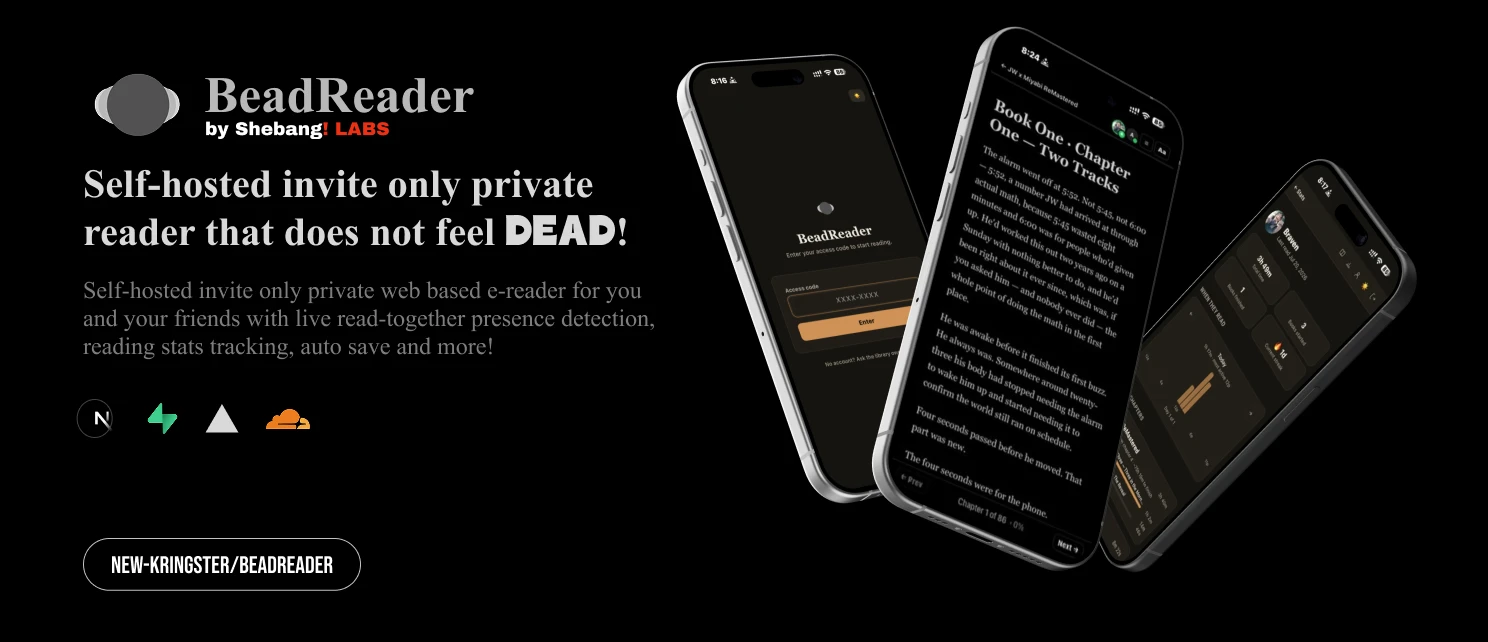
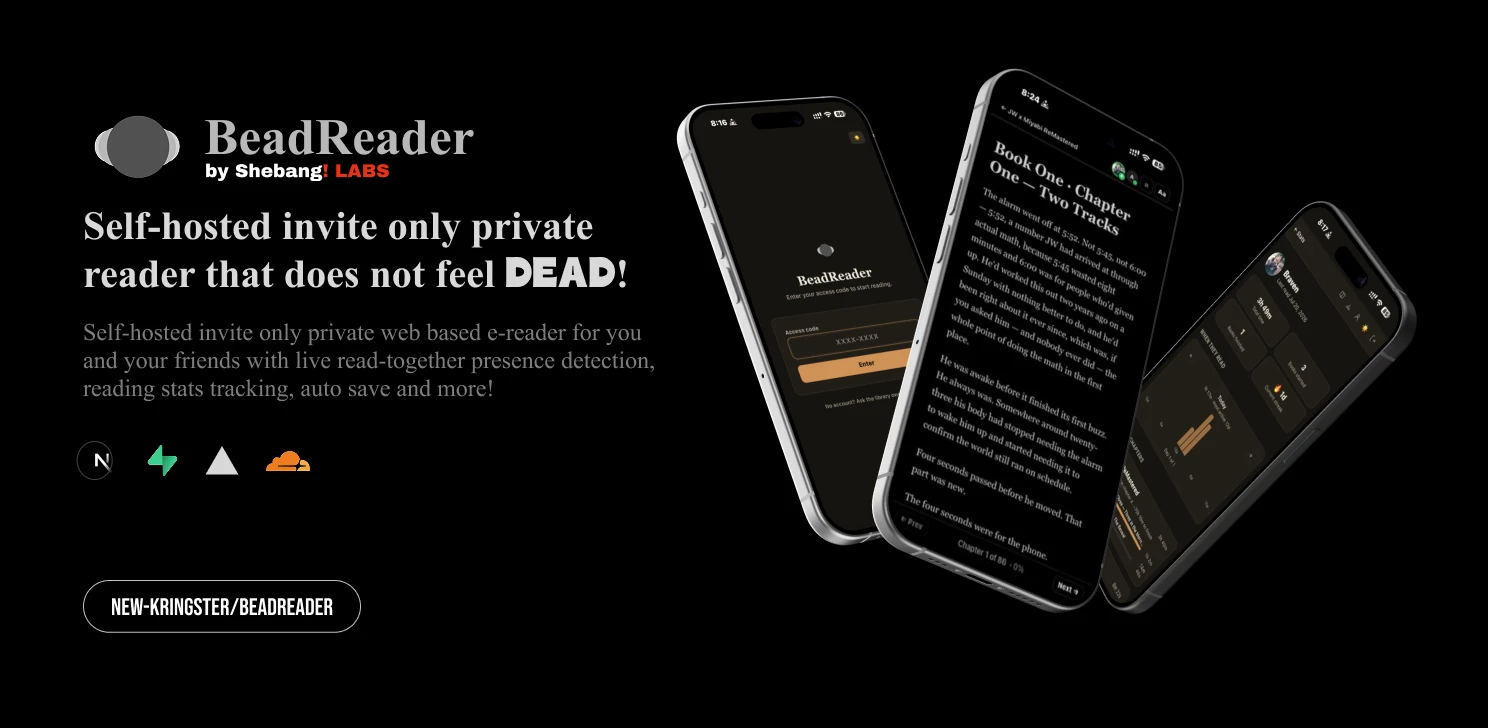
Flagship polish: flagships first, crown badge in spotlights, padded flagship image, spicy-gate on its own line with animated reveal
- Order the two flagships (Project June, BeadReader) first in the gallery,
  peek feed order, and recommendations.
- BeadReader flagship spotlight image: a bit more top/bottom padding (less cramped).
- Spotlight badges now use the premium gold crown design (matching the gallery
  Flagship badge); dropped the sensory 'cooling' override on .hp-spot-badge.
- SpicyGate: the spicy passage is now its own line between two clean sentences, so
  revealing never rearranges the text, and the reveal animates blur to clear.

diff --git a/app/beadreader/SpicyGate.tsx b/app/beadreader/SpicyGate.tsx
@@ -2,21 +2,22 @@
 import { useEffect, useRef, useState } from 'react';
 import { AnimatePresence, LazyMotion, domAnimation, m } from 'framer-motion';
 
-/* SpicyGate — dramatises BeadReader's per-reader "spicy" content gate: the
-   same chapter paragraph rendered three ways depending on the reader's mode
-   (blurred tap-to-reveal, locked, or entirely absent). Auto-cycles, pauses
-   off-screen, never reflows the page. */
+/* SpicyGate — dramatises BeadReader's per-reader "spicy" content gate. The
+   spicy passage sits on its OWN line between two clean sentences, so revealing
+   it never rearranges the surrounding text. Full access blurs the line and
+   animates it clear on tap; No access shows a locked block; Cal mode drops the
+   line entirely. Auto-cycles, pauses off-screen, never reflows the page. */
 
-const LEAD = 'They had circled each other all evening. When the last guest finally left, the room went quiet, and ';
-const SPICY = 'what happened next stayed between them and the low light of the fire.';
-const TRAIL = ' Morning came far too soon.';
+const LEAD = 'They had circled each other all evening. When the last guest finally left, the room went quiet.';
+const SPICY = 'What happened next stayed between them and the low light of the fire.';
+const TRAIL = 'Morning came far too soon.';
 
 type ModeKey = 'full' | 'none' | 'cal';
 type Mode = { key: ModeKey; label: string; caption: string };
 const MODES: Mode[] = [
-  { key: 'full', label: 'Full access', caption: 'Tap the blurred line to reveal the spicy passage.' },
+  { key: 'full', label: 'Full access', caption: 'Tap the blurred line and it clears. The reader has access.' },
   { key: 'none', label: 'No access', caption: 'Locked. The passage never renders for this reader.' },
-  { key: 'cal', label: 'Cal mode', caption: 'The passage is skipped entirely, no gap, no marker.' },
+  { key: 'cal', label: 'Cal mode', caption: 'The line is dropped entirely, no gap and no marker.' },
 ];
 
 const LONGEST_CAPTION = MODES.reduce((a, b) => (b.caption.length > a.length ? b.caption : a), '');
@@ -48,7 +49,7 @@ export default function SpicyGate() {
 
   useEffect(() => {
     if (!auto || !inView || reduced) return;
-    const t = setInterval(() => setModeIdx((p) => (p + 1) % MODES.length), 3400);
+    const t = setInterval(() => setModeIdx((p) => (p + 1) % MODES.length), 3600);
     return () => clearInterval(t);
   }, [auto, inView, reduced]);
 
@@ -61,7 +62,14 @@ export default function SpicyGate() {
   };
 
   const mode = MODES[modeIdx];
-  const showRevealed = mode.key === 'full' && (revealed || reduced);
+  const showRevealed = revealed || reduced;
+
+  const fade = {
+    initial: reduced ? false : { opacity: 0 },
+    animate: { opacity: 1 },
+    exit: { opacity: 0 },
+    transition: { duration: 0.28 },
+  } as const;
 
   return (
     <LazyMotion features={domAnimation}>
@@ -69,61 +77,36 @@ export default function SpicyGate() {
         <div className="sg-panel">
           <span className="sg-eyebrow">Chapter 9</span>
           <div className="sg-page">
-            <p className="sg-para">
-              {LEAD}
-              <span className="sg-passage-slot">
+            <div className="sg-story">
+              <p className="sg-para">{LEAD}</p>
+              <div className="sg-spicy-line">
                 <AnimatePresence mode="wait" initial={false}>
                   {mode.key === 'full' && (
-                    <m.span
-                      key="full"
-                      className={`sg-passage full${showRevealed ? ' is-revealed' : ''}`}
-                      initial={reduced ? false : { opacity: 0 }}
-                      animate={{ opacity: 1 }}
-                      exit={reduced ? { opacity: 0 } : { opacity: 0 }}
-                      transition={{ duration: 0.25 }}
-                    >
-                      {!showRevealed && (
-                        <button
-                          type="button"
-                          className="sg-reveal-btn"
-                          onClick={() => setRevealed(true)}
-                          aria-label="Tap to reveal the spicy passage"
-                        >
-                          <span className="sg-blur-text" aria-hidden="true">{SPICY}</span>
-                          <span className="sg-reveal-tag"><span aria-hidden="true">🌶</span> tap to reveal</span>
-                        </button>
-                      )}
-                      {showRevealed && <span className="sg-passage-text">{SPICY}</span>}
-                    </m.span>
+                    <m.div key="full" className="sg-spicy-wrap" {...fade}>
+                      <button
+                        type="button"
+                        className={`sg-reveal${showRevealed ? ' is-revealed' : ''}`}
+                        onClick={() => setRevealed(true)}
+                        disabled={showRevealed}
+                        aria-label={showRevealed ? 'Spicy passage revealed' : 'Tap to reveal the spicy passage'}
+                      >
+                        <span className="sg-spicy-text">{SPICY}</span>
+                        <span className="sg-reveal-tag"><span aria-hidden="true">🌶</span> tap to reveal</span>
+                      </button>
+                    </m.div>
                   )}
                   {mode.key === 'none' && (
-                    <m.span
-                      key="none"
-                      className="sg-passage locked"
-                      initial={reduced ? false : { opacity: 0 }}
-                      animate={{ opacity: 1 }}
-                      exit={reduced ? { opacity: 0 } : { opacity: 0 }}
-                      transition={{ duration: 0.25 }}
-                    >
-                      <span className="sg-lock-block">
-                        <span aria-hidden="true">🔒</span> Spicy passage, access on request
-                      </span>
-                    </m.span>
+                    <m.div key="none" className="sg-spicy-wrap" {...fade}>
+                      <span className="sg-lock-block"><span aria-hidden="true">🔒</span> Spicy passage, access on request</span>
+                    </m.div>
                   )}
                   {mode.key === 'cal' && (
-                    <m.span
-                      key="cal"
-                      className="sg-passage cal"
-                      initial={reduced ? false : { opacity: 0 }}
-                      animate={{ opacity: 1 }}
-                      exit={reduced ? { opacity: 0 } : { opacity: 0 }}
-                      transition={{ duration: 0.25 }}
-                    />
+                    <m.div key="cal" className="sg-spicy-wrap sg-cal" {...fade} />
                   )}
                 </AnimatePresence>
-              </span>
-              {TRAIL}
-            </p>
+              </div>
+              <p className="sg-para">{TRAIL}</p>
+            </div>
           </div>
         </div>
 
@@ -167,40 +150,42 @@ export default function SpicyGate() {
             font-family: 'inter'; font-size: 0.64rem; font-weight: 700; letter-spacing: 0.2em;
             text-transform: uppercase; color: rgba(232,220,200,0.55); display: block; margin-bottom: 12px;
           }
-          .sg-page { min-height: 168px; display: flex; align-items: center; }
+          /* Fixed reserve for the whole passage block, so cycling modes never reflows the page. */
+          .sg-page { min-height: 190px; display: flex; align-items: center; }
+          .sg-story { width: 100%; }
           .sg-para {
-            font-family: 'dmsans'; font-size: 0.98rem; line-height: 1.75; color: rgba(240,232,220,0.86);
-            margin: 0;
+            font-family: 'dmsans'; font-size: 0.98rem; line-height: 1.7; color: rgba(240,232,220,0.86); margin: 0;
           }
-          .sg-passage-slot { display: inline; }
-          .sg-passage { display: inline; }
-          .sg-passage.full { position: relative; }
-          .sg-reveal-btn {
-            position: relative; display: inline-flex; align-items: baseline; gap: 8px; flex-wrap: wrap;
-            border: 0; padding: 0; margin: 0; background: none; cursor: pointer; text-align: left;
-            font: inherit; color: inherit;
+          /* The spicy passage is its OWN line between the two paragraphs. */
+          .sg-spicy-line { margin: 0.55rem 0; }
+          .sg-spicy-wrap { min-height: 1.75em; display: flex; align-items: center; }
+          .sg-spicy-wrap.sg-cal { min-height: 0; }
+          .sg-reveal {
+            display: inline-flex; align-items: center; gap: 11px; flex-wrap: wrap;
+            border: 0; background: none; padding: 0; margin: 0; cursor: pointer; text-align: left; font: inherit; color: inherit;
           }
-          .sg-blur-text {
-            filter: blur(6px); user-select: none; transition: filter 0.3s ease;
+          .sg-reveal[disabled] { cursor: default; }
+          /* Same text element both states: revealing only animates the blur away, so nothing moves. */
+          .sg-spicy-text {
+            font-family: 'dmsans'; font-size: 0.98rem; line-height: 1.7;
+            filter: blur(6px); color: rgba(240,232,220,0.5); user-select: none;
+            transition: filter 0.6s ease, color 0.6s ease;
           }
-          .sg-reveal-btn:hover .sg-blur-text { filter: blur(5px); }
+          .sg-reveal.is-revealed .sg-spicy-text { filter: blur(0); color: var(--sg-spicy); user-select: text; }
           .sg-reveal-tag {
             display: inline-flex; align-items: center; gap: 5px; white-space: nowrap;
-            font-family: 'inter'; font-weight: 700; font-size: 0.62rem; letter-spacing: 0.06em;
-            text-transform: uppercase; color: var(--sg-spicy);
-            background: rgba(224,102,61,0.14); border: 1px solid rgba(224,102,61,0.35);
-            padding: 3px 9px; border-radius: 999px; vertical-align: middle;
+            font-family: 'inter'; font-weight: 700; font-size: 0.62rem; letter-spacing: 0.06em; text-transform: uppercase;
+            color: var(--sg-spicy); background: rgba(224,102,61,0.14); border: 1px solid rgba(224,102,61,0.35);
+            padding: 3px 9px; border-radius: 999px; transition: opacity 0.45s ease;
           }
-          .sg-reveal-btn:focus-visible { outline: 2px solid rgb(var(--sa-accent)); outline-offset: 3px; border-radius: 4px; }
-          .sg-passage-text { color: var(--sg-spicy); }
-          .sg-passage.locked { display: inline-block; }
+          .sg-reveal.is-revealed .sg-reveal-tag { opacity: 0; }
+          .sg-reveal:focus-visible { outline: 2px solid rgb(var(--sa-accent)); outline-offset: 4px; border-radius: 6px; }
           .sg-lock-block {
-            display: inline-flex; align-items: center; gap: 7px; white-space: nowrap;
-            font-family: 'inter'; font-weight: 600; font-size: 0.78rem; color: rgba(240,232,220,0.55);
+            display: inline-flex; align-items: center; gap: 7px;
+            font-family: 'inter'; font-weight: 600; font-size: 0.8rem; color: rgba(240,232,220,0.55);
             background: rgba(255,255,255,0.05); border: 1px solid rgba(255,255,255,0.12);
-            padding: 4px 11px; border-radius: 8px; vertical-align: middle;
+            padding: 5px 12px; border-radius: 8px;
           }
-          .sg-passage.cal { display: inline; }
           .sg-side { display: flex; flex-direction: column; gap: 16px; }
           .sg-tabs { display: flex; gap: 8px; flex-wrap: wrap; }
           .sg-tab {
@@ -212,23 +197,19 @@ export default function SpicyGate() {
           .sg-tab:hover { transform: translateY(-1px); border-color: rgba(var(--sa-accent), 0.5); color: #f2ece2; }
           .sg-tab:active { transform: translateY(0); }
           .sg-tab:focus-visible { outline: 2px solid rgb(var(--sa-accent)); outline-offset: 2px; }
-          .sg-tab.is-active {
-            color: #1a1208; background: rgb(var(--sa-accent)); border-color: rgb(var(--sa-accent));
-          }
+          .sg-tab.is-active { color: #1a1208; background: rgb(var(--sa-accent)); border-color: rgb(var(--sa-accent)); }
           .sg-cap-wrap { display: grid; }
           .sg-cap-wrap > .sg-cap { grid-area: 1 / 1; }
           .sg-cap-sizer { visibility: hidden; pointer-events: none; }
           .sg-cap { font-family: 'dmsans'; font-size: 0.94rem; line-height: 1.6; color: rgba(240,232,220,0.78); margin: 0; max-width: 32ch; }
           .sg-footnote {
-            font-family: 'dmsans'; font-size: 0.76rem; line-height: 1.5; color: rgba(232,220,200,0.45);
-            max-width: 32ch;
+            font-family: 'dmsans'; font-size: 0.76rem; line-height: 1.5; color: rgba(232,220,200,0.45); max-width: 32ch;
           }
           @media (max-width: 720px) {
             .sg { grid-template-columns: 1fr; gap: 20px; }
           }
           @media (max-width: 420px) {
-            .sg-page { min-height: 210px; }
-            .sg-reveal-tag { display: inline-flex; }
+            .sg-page { min-height: 226px; }
           }
         `}</style>
       </div>

diff --git a/app/HomeClient.tsx b/app/HomeClient.tsx
@@ -493,11 +493,7 @@ export default function HomeClient() {
           html.sensory-active .hp-pf-showmore-wrap::before {
             background: linear-gradient(to bottom, rgba(5,7,14,0) 0%, rgba(5,7,14,0.8) 62%, rgba(5,7,14,0.97) 100%) !important; }
 
-          /* Cool the warm flagship badge so it reads in the deck palette */
-          html.sensory-active .hp-spot-badge {
-            background: rgba(12,16,28,0.62) !important; border: 1px solid rgba(var(--sa-accent),0.42) !important;
-            color: #cddbff !important; font-family: var(--font-ddt); text-transform: uppercase; letter-spacing: 0.14em; }
-          html.sensory-active .hp-spot-badge svg { color: rgba(var(--sa-accent),0.95); fill: rgba(var(--sa-accent),0.95); }
+          /* The flagship spotlight badge stays the premium gold crown (see .hp-spot-badge). */
         `}</style>
 
         {/* ── HERO ── */}
@@ -651,7 +647,7 @@ export default function HomeClient() {
             <article className="hp-spotlight" data-reveal>
               <div className="hp-spot-media">
                 <img src="/images/ProjJuneBanner1.webp" alt="Project June, a 5G radio-controlled vehicle" loading="lazy" />
-                <span className="hp-spot-badge"><ST /> Flagship Hardware Build</span>
+                <span className="hp-spot-badge"><CRWN /> Flagship Hardware Build</span>
               </div>
               <div className="hp-spot-body">
                 <span className="hp-key">Project June · Personal</span>
@@ -676,7 +672,7 @@ export default function HomeClient() {
             <article className="hp-spotlight hp-spotlight-solo" data-reveal>
               <div className="hp-spot-media">
                 <img src="/images/beadreader-flagship.webp" alt="BeadReader, a self-hosted invite-only private book reader" loading="lazy" />
-                <span className="hp-spot-badge"><ST /> Flagship Software Build</span>
+                <span className="hp-spot-badge"><CRWN /> Flagship Software Build</span>
               </div>
               <div className="hp-spot-solo-body">
                 <div className="hp-spot-stats">
@@ -754,6 +750,23 @@ export default function HomeClient() {
                 </div>
               </article>
 
+              {/* BeadReader */}
+              <article id="proj-beadreader" className="hp-pf-card" data-article="/beadreader" data-type="personal" data-flagship="1" data-search="beadreader bead reader private book reader ebook webtoon nextjs supabase cloudflare r2 tailwind postgres presence reading stats access code personal flagship highlight web app">
+                <div className="hp-pf-thumb">
+                  <button className="hp-pf-peek" onClick={peek} aria-label="Peek at a quick summary"><span className="hp-pf-peek-pill"><SR />Peek summary</span></button>
+                  <span className="hp-pf-type personal">Personal</span><span className="hp-pf-crown"><CRWN />Flagship</span>
+                  <img src="/images/beadreader-pf-context.webp" alt="BeadReader private book reader" loading="lazy" />
+                </div>
+                <div className="hp-pf-info">
+                  <h3 className="hp-pf-name">BeadReader</h3>
+                  <p className="hp-pf-blurb">A private, invite-only online book reader with live reading-together presence, per-reader resume, a SQL-enforced content gate, webtoons and shared reading stats. Next.js and Supabase.</p>
+                  <div className="hp-pf-foot">
+                    <div className="icon-stack"><img src="/images/nextjs-icon.webp" alt="" /><img src="/images/supabase-icon.webp" alt="" /><img src="/images/tailwind-icon.webp" alt="" /><img src="/images/cloudflare-icon.webp" alt="" /></div>
+                    <button className="hp-pf-view" onClick={() => { window.location.href = '/beadreader'; }}>Read article <AU /></button>
+                  </div>
+                </div>
+              </article>
+
               {/* LoRA Messenger */}
               <article id="proj-lora" className="hp-pf-card" data-article="/brolocator" data-type="personal" data-highlight="1" data-search="lora messenger esp32 espnow voice pcb kicad onshape oled battery personal radio highlight">
                 <div className="hp-pf-thumb">
@@ -784,23 +797,6 @@ export default function HomeClient() {
                   <div className="hp-pf-foot">
                     <div className="icon-stack"><img src="/images/esp-icon.webp" alt="" /><img src="/images/python-icon.webp" alt="" /><img src="/images/docker-icon.webp" alt="" /><img src="/images/vscode-icon.webp" alt="" /></div>
                     <button className="hp-pf-view" onClick={() => { window.location.href = '/lumen'; }}>Read article <AU /></button>
-                  </div>
-                </div>
-              </article>
-
-              {/* BeadReader */}
-              <article id="proj-beadreader" className="hp-pf-card" data-article="/beadreader" data-type="personal" data-flagship="1" data-search="beadreader bead reader private book reader ebook webtoon nextjs supabase cloudflare r2 tailwind postgres presence reading stats access code personal flagship highlight web app">
-                <div className="hp-pf-thumb">
-                  <button className="hp-pf-peek" onClick={peek} aria-label="Peek at a quick summary"><span className="hp-pf-peek-pill"><SR />Peek summary</span></button>
-                  <span className="hp-pf-type personal">Personal</span><span className="hp-pf-crown"><CRWN />Flagship</span>
-                  <img src="/images/beadreader-pf-context.webp" alt="BeadReader private book reader" loading="lazy" />
-                </div>
-                <div className="hp-pf-info">
-                  <h3 className="hp-pf-name">BeadReader</h3>
-                  <p className="hp-pf-blurb">A private, invite-only online book reader with live reading-together presence, per-reader resume, a SQL-enforced content gate, webtoons and shared reading stats. Next.js and Supabase.</p>
-                  <div className="hp-pf-foot">
-                    <div className="icon-stack"><img src="/images/nextjs-icon.webp" alt="" /><img src="/images/supabase-icon.webp" alt="" /><img src="/images/tailwind-icon.webp" alt="" /><img src="/images/cloudflare-icon.webp" alt="" /></div>
-                    <button className="hp-pf-view" onClick={() => { window.location.href = '/beadreader'; }}>Read article <AU /></button>
                   </div>
                 </div>
               </article>

diff --git a/components/ArticleRecommendations.tsx b/components/ArticleRecommendations.tsx
@@ -24,9 +24,9 @@ interface Project {
 
 const ALL_PROJECTS: Project[] = [
   { id: 'proj-june', title: 'Project June', blurb: 'A 5G radio-controlled vehicle with 3 live video streams, GPS, a laser system, gyroscope and more. My most ambitious build.', img: '/images/ProjJuneBanner1.webp', imgAlt: 'Project June rover', type: 'personal', flagship: true, articleUrl: '/project-june', icons: [{ src: '/images/esp-icon.webp', alt: 'ESP32' }, { src: '/images/Kicad-icon.webp', alt: 'KiCAD' }, { src: '/images/onshape-icon.webp', alt: 'Onshape' }, { src: '/images/PlatformIO-icon.webp', alt: 'PlatformIO' }] },
+  { id: 'proj-beadreader', title: 'BeadReader', blurb: 'A private, invite-only online book reader with live presence, per-reader resume, a SQL-enforced content gate, webtoons and shared reading stats. Next.js and Supabase.', img: '/images/beadreader-pf-context.webp', imgAlt: 'BeadReader private book reader', type: 'personal', flagship: true, articleUrl: '/beadreader', icons: [{ src: '/images/nextjs-icon.webp', alt: 'Next.js' }, { src: '/images/supabase-icon.webp', alt: 'Supabase' }, { src: '/images/tailwind-icon.webp', alt: 'Tailwind CSS' }, { src: '/images/cloudflare-icon.webp', alt: 'Cloudflare R2' }] },
   { id: 'proj-lora', title: 'LoRA Messenger', blurb: 'An ESP32 messenger with 2-way voice over ESP-NOW and text over LoRa. Custom PCB in KiCAD, case in Onshape, all self-taught.', img: '/images/borlocator-pf-context.webp', imgAlt: 'LoRA Messenger', type: 'personal', highlight: true, articleUrl: '/brolocator', icons: [{ src: '/images/esp-icon.webp', alt: 'ESP32' }, { src: '/images/Kicad-icon.webp', alt: 'KiCAD' }, { src: '/images/onshape-icon.webp', alt: 'Onshape' }, { src: '/images/PlatformIO-icon.webp', alt: 'PlatformIO' }] },
   { id: 'proj-lumen', title: 'LUMEN', blurb: 'A voice-controlled smart-room assistant on an ESP32, with Whisper and a DeepSeek LLM via OpenRouter turning speech into one JSON command over MQTT.', img: '/images/lumen-pf-context.webp', imgAlt: 'LUMEN voice assistant', type: 'school', highlight: true, articleUrl: '/lumen', icons: [{ src: '/images/esp-icon.webp', alt: 'ESP32' }, { src: '/images/python-icon.webp', alt: 'Python' }, { src: '/images/docker-icon.webp', alt: 'Docker' }, { src: '/images/vscode-icon.webp', alt: 'VS Code' }] },
-  { id: 'proj-beadreader', title: 'BeadReader', blurb: 'A private, invite-only online book reader with live presence, per-reader resume, a SQL-enforced content gate, webtoons and shared reading stats. Next.js and Supabase.', img: '/images/beadreader-pf-context.webp', imgAlt: 'BeadReader private book reader', type: 'personal', flagship: true, articleUrl: '/beadreader', icons: [{ src: '/images/nextjs-icon.webp', alt: 'Next.js' }, { src: '/images/supabase-icon.webp', alt: 'Supabase' }, { src: '/images/tailwind-icon.webp', alt: 'Tailwind CSS' }, { src: '/images/cloudflare-icon.webp', alt: 'Cloudflare R2' }] },
   { id: 'proj-ema', title: 'EMA Smart Home', blurb: 'A multi-node smart-home system on BeagleBone Black, Python and SocketIO, with a live dashboard and a 3D Spline view.', img: '/images/Ema-pf-context.webp', imgAlt: 'EMA Smart Home System', type: 'school', highlight: false, articleUrl: '/csdp', icons: [{ src: '/images/vscode-icon.webp', alt: 'VS Code' }, { src: '/images/figma-icon.webp', alt: 'Figma' }, { src: '/images/resolve-icon.webp', alt: 'DaVinci Resolve' }, { src: '/images/onshape-icon.webp', alt: 'Onshape' }] },
   { id: 'proj-pandus', title: 'Pandus Dispenser', blurb: 'My first school project: a 6-part 3D-printed water dispenser powered by an Arduino Uno and driven with PyFirmata.', img: '/images/pandusarticle.webp', imgAlt: 'Pandus Dispenser', type: 'school', highlight: false, articleUrl: '/pandus', icons: [{ src: '/images/onshape-icon.webp', alt: 'Onshape' }, { src: '/images/vscode-icon.webp', alt: 'VS Code' }, { src: '/images/resolve-icon.webp', alt: 'DaVinci Resolve' }, { src: '/images/powerpoint-icon.webp', alt: 'PowerPoint' }] },
   { id: 'proj-elecf', title: 'ELEC-F Concept', blurb: 'A freezer safety system on M5Stack. ToF and PIR sensors catch a worker trapped in a walk-in freezer, then a timer and alarm raise help.', img: '/images/elef2-pf-context.webp', imgAlt: 'ELEC-F Concept', type: 'school', highlight: false, articleUrl: '/elecf', icons: [{ src: '/images/figma-icon.webp', alt: 'Figma' }, { src: '/images/ps-pf-icon.webp', alt: 'Photoshop' }, { src: '/images/resolve-icon.webp', alt: 'DaVinci Resolve' }] },

diff --git a/public/mainstyle.css b/public/mainstyle.css
@@ -5590,12 +5590,13 @@ html[data-theme="paper"] {
 .hp-spot-badge {
   position: absolute; top: 14px; left: 14px; z-index: 2;
   display: inline-flex; align-items: center; gap: 6px;
-  font-family: 'inter'; font-size: 0.62rem; font-weight: 700; letter-spacing: 0.08em; text-transform: uppercase;
-  color: #ffce5a; padding: 0.36rem 0.72rem; border-radius: 999px;
-  background: rgba(20,16,0,0.55); border: 1px solid rgba(255,170,0,0.45);
-  -webkit-backdrop-filter: blur(6px); backdrop-filter: blur(6px);
+  font-family: 'inter'; font-size: 0.62rem; font-weight: 800; letter-spacing: 0.08em; text-transform: uppercase;
+  color: #23160a; padding: 0.4rem 0.8rem; border-radius: 999px;
+  background: linear-gradient(135deg, #ffe6a0, #f3b444);
+  border: 1px solid rgba(255,226,150,0.9);
+  box-shadow: 0 8px 20px -7px rgba(243,180,68,0.75), inset 0 1px 0 rgba(255,255,255,0.55);
 }
-.hp-spot-badge svg { width: 12px; height: 12px; }
+.hp-spot-badge svg { width: 13px; height: 13px; }
 .hp-spot-body { display: flex; flex-direction: column; justify-content: center; padding: clamp(16px, 2.2vw, 30px) clamp(14px, 1.8vw, 26px); }
 .hp-spot-title {
   font-family: 'oswaldbold'; font-size: clamp(1.6rem, 3vw, 2.4rem); line-height: 1.1; letter-spacing: -0.015em;

diff --git a/components/ProjectPeek.tsx b/components/ProjectPeek.tsx
@@ -16,7 +16,7 @@ import { useEffect, useRef, useState } from 'react';
 
 /* Project order = the homepage gallery order (also the ALL_PROJECTS order). */
 export const PEEK_ORDER: string[] = [
-  'proj-june', 'proj-lora', 'proj-lumen', 'proj-beadreader', 'proj-ema', 'proj-pandus', 'proj-elecf',
+  'proj-june', 'proj-beadreader', 'proj-lora', 'proj-lumen', 'proj-ema', 'proj-pandus', 'proj-elecf',
   'proj-kauli', 'proj-sol', 'proj-copyboard', 'proj-webdev', 'proj-mc',
 ];
 
